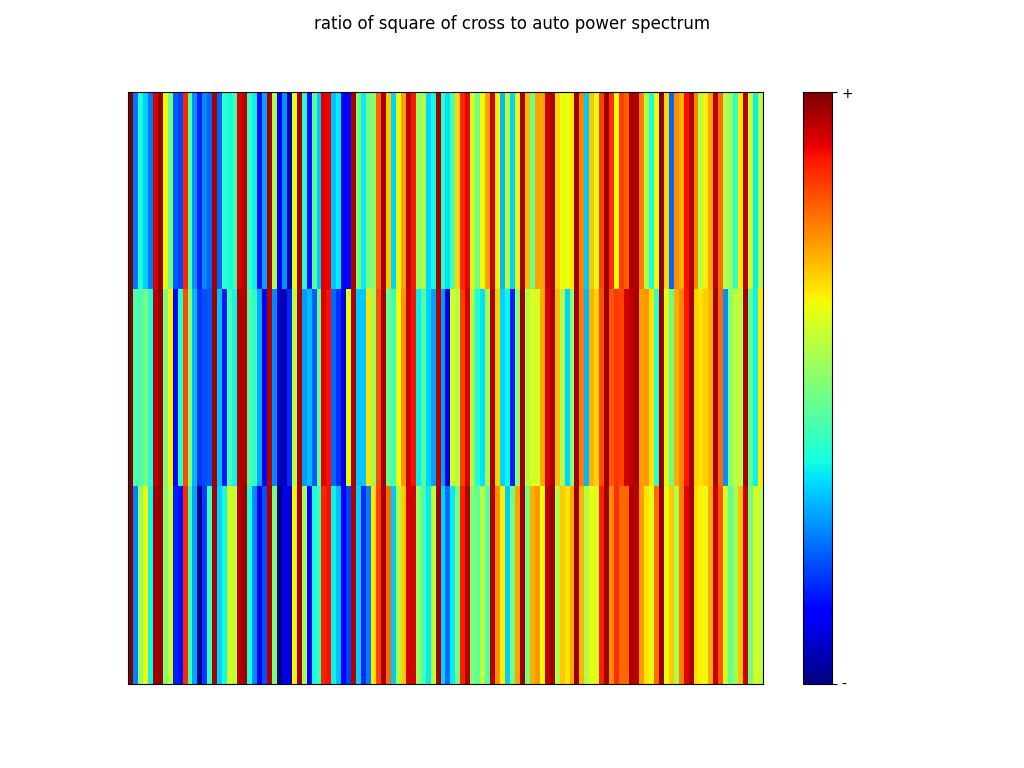
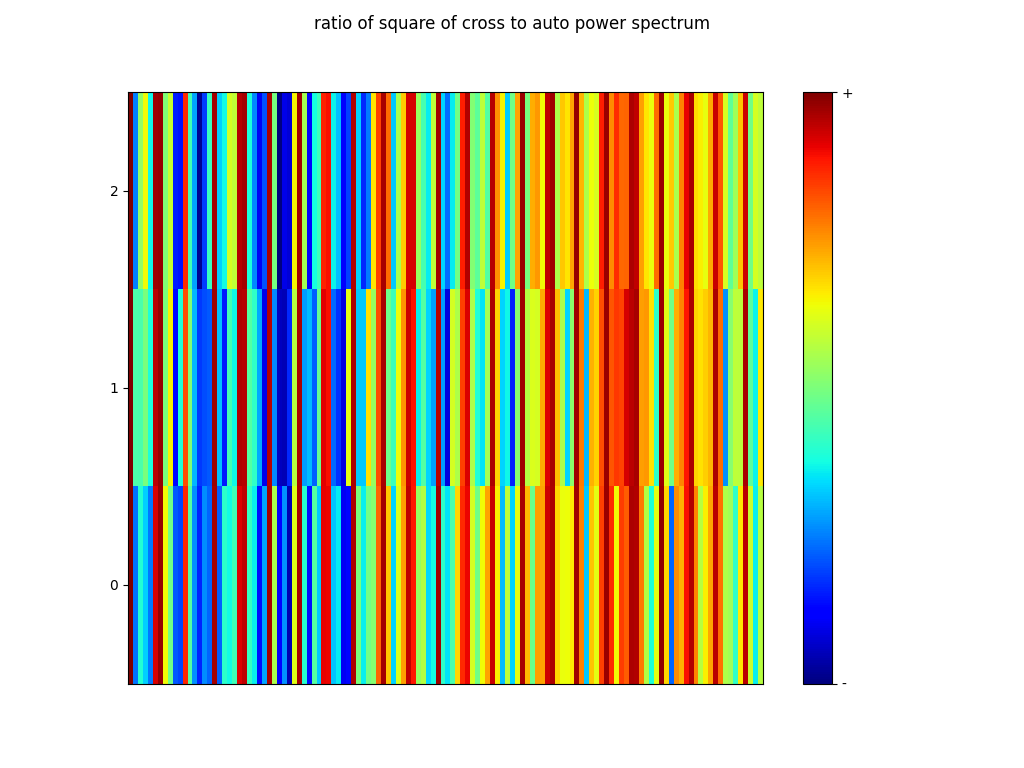
changesmatpltlib heatmap plot so 0,0 is on bottom left, as it should be. updated the image t reflect the new code

Changed region(s): [[0.125, 0.625, 0.75, 0.9062], [0.125, 0.0938, 0.75, 0.375]]

diff --git a/transform_heatmap_output.py b/transform_heatmap_output.py
@@ -34,10 +34,24 @@ def plot_heatmap(op_data, name, group, op, metadata, cmap="jet", width=default_w
         delta = 1
     rows = [ [(float(y-min_y) / delta) for y in row] for row in op_data ]
 
-    im = ax.imshow(rows, cmap=cmap, interpolation='nearest',
+    im = ax.imshow(list(reversed(rows)), cmap=cmap, interpolation='nearest',
                    aspect='auto', extent=(0,len(rows[0]), 0, len(rows)))
     ax.xaxis.set_ticks([])
-    ax.yaxis.set_ticks([])
+    # label y-axis groups
+    y_ticks = []
+    y_labels = []
+    last_label = ""
+    y_label_list = name
+    if len(set(group)) > 1:
+        y_label_list = group
+    for idx, label in enumerate(y_label_list):
+        if label == last_label:
+            continue
+        last_label = label
+        y_labels.append(label)
+        y_ticks.append(idx + 0.5)
+    ax.yaxis.set_ticks( y_ticks )
+    ax.yaxis.set_ticklabels(y_labels)
     cb = fig.colorbar(im)
     # FIXME: Ticks should probably contain actual values
     # For now, just set to positive/negative

diff --git a/README.md b/README.md
@@ -263,7 +263,7 @@ max    2.766847  0.0  0.0  0.0  ...  343.360000  19.0  10.000000  0.0
 These programs take an AnalysisResults JSON file as in put. In the following examples, the automatically-saved output of multiple_output_request.py has been used.
 * extract-transform-heatmaps.py - Demonstrates how to extract base64-encoded attachments and write them to a file. This exports the SVG files generated by the  **transform-heatmap** output extension.
 ```
-bash# python extract-transform-heataps.py data/analysis-results.multiple-outputs.example.json 
+bash# python extract_transform_heatmaps.py data/analysis-results.multiple-outputs.example.json 
 Writing images/transform-heatmap-amp.V5.svg...
 Writing images/transform-heatmap-amp.II.svg...
 Writing images/transform-heatmap-aps.V5.svg...
@@ -281,7 +281,7 @@ Example heatmap : Coherence
 
 * transform_heatmap_output.py - Demonstrates generating the transform heatmaps locally, using matplotlib.
 ```
-bash# python extract-transform-heataps.py data/analysis-results.multiple-outputs.example.json 
+bash# python transform_heatmap_putput.py data/analysis-results.multiple-outputs.example.json 
 Plotting aps.V5. Press Ctrl-w to close.
 Plotting aps.II. Press Ctrl-w to close.
 Plotting amp.V5. Press Ctrl-w to close.
